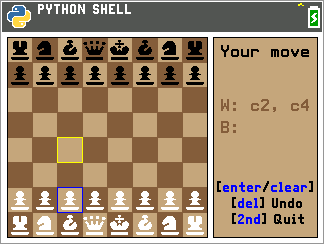
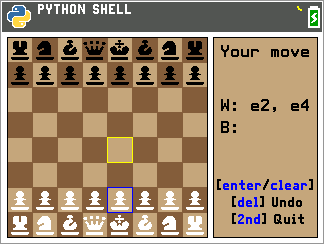
Screenshots/Ttitle screen updates

diff --git a/Chess/CHESS.py b/Chess/CHESS.py
@@ -18,7 +18,7 @@ PIECE_H    = 20     # height of the piece sprites (bases line up)
 
 # Colors
 BG_COLOR = (255, 255, 255) # White
-BOARDER = (0, 0, 0) # Black
+BORDER = (0, 0, 0) # Black
 BOARD_COLOR   = (196, 164, 120) # Light color
 BOARD_TILE = (130, 92, 60)    # Dark color
 GRID_COLOR = BOARD_TILE         # Lines between squares
@@ -184,7 +184,7 @@ def draw_outer_border():
     # Black border around the whole board only
     left, top = BOARD_X, BOARD_Y
     right, bottom = BOARD_X + BOARD_SIZE, BOARD_Y + BOARD_SIZE
-    ti_draw.set_color(*BOARDER)
+    ti_draw.set_color(*BORDER)
     ti_draw.draw_line(left, top, right, top)
     ti_draw.draw_line(left, bottom, right, bottom)
     ti_draw.draw_line(left, top, left, bottom)
@@ -232,7 +232,7 @@ def hide_cursor(row, col):
     for line, outer in edges:
         if not outer:
             ti_draw.draw_line(*line)
-    ti_draw.set_color(*BOARDER)
+    ti_draw.set_color(*BORDER)
     for line, outer in edges:
         if outer:
             ti_draw.draw_line(*line)
@@ -628,9 +628,9 @@ def cpu_move(b, side, ep, cs, legal, level, seen):
 # ---------- Title screen ----------
 
 TEXT_COLOR  = (0, 0, 0)          # Black
-TITLE_COLOR   = (220, 0, 0)       # Red
+TITLE_COLOR   = TEXT_COLOR
 BRACKET_COLOR = TITLE_COLOR
-TITLE_BG      = BOARD_COLOR       # title screen background
+TITLE_BG      = BG_COLOR
 
 # Big title letters, 5 x 7 pixel grid, drawn TITLE_SCALE times bigger
 TITLE_SCALE = 6
@@ -641,12 +641,16 @@ TITLE_FONT = {
     "s": [".....", ".....", ".####", "#....", ".###.", "....#", "####."],
 }
 
-TITLE_Y   = 16                   # top of the big "Chess"
+TITLE_Y   = 16                  # top of the big "Chess"
+BAND_COLS = 8                   # checkered band behind the title
+BAND_ROWS = 2
+BAND_X    = (SCREEN_WIDTH - BAND_COLS * TILE_SIZE) // 2
+BAND_Y    = TITLE_Y - (BAND_ROWS * TILE_SIZE - 7 * TITLE_SCALE) // 2
 HEAD_Y    = 92                   # "Select difficulty:" / "Select your color:"
 MENU_Y    = 124                  # first menu option
 MENU_STEP = 24                   # space between lines
 MENU      = ["Easy", "Normal", "Hard"]
-COLORS    = ["White", "Black", "Demo"]
+COLORS    = ["White", "Black", "CPU Game"]
 
 _last_key = [0]
 
@@ -683,6 +687,17 @@ def draw_big_text(text, y, color):
                 else:
                     c += 1
         x += 6 * s
+
+
+def draw_checker_band():
+    # Board-colored checkered strip behind the title (top-left is light)
+    ti_draw.set_color(*BOARD_COLOR)
+    fill_box(BAND_X, BAND_Y, BAND_COLS * TILE_SIZE, BAND_ROWS * TILE_SIZE)
+    ti_draw.set_color(*BOARD_TILE)
+    for row in range(BAND_ROWS):
+        for col in range((row + 1) % 2, BAND_COLS, 2):
+            fill_box(BAND_X + col * TILE_SIZE, BAND_Y + row * TILE_SIZE,
+                     TILE_SIZE, TILE_SIZE)
 
 
 def draw_text_centered(y, text, color):
@@ -739,6 +754,7 @@ def title_screen():
     # color "w", "b", or "c" (CPU vs CPU: you just watch). Returns None if CLEAR is pressed on the first menu.
     # CLEAR on the color menu goes back to the difficulty menu.
     draw_bg(TITLE_BG)
+    draw_checker_band()
     draw_big_text("Chess", TITLE_Y, TITLE_COLOR)
     while True:
         level = run_menu("Select difficulty:", MENU, 1)   # Normal picked
@@ -845,7 +861,7 @@ def draw_box():
     # Message area filled with the board color, with a black border
     ti_draw.set_color(*PANEL_BG)
     fill_box(BOX_L + 1, BOX_T + 1, BOX_R - BOX_L - 1, BOX_B - BOX_T - 1)
-    ti_draw.set_color(*BOARDER)
+    ti_draw.set_color(*BORDER)
     ti_draw.draw_line(BOX_L, BOX_T, BOX_R, BOX_T)
     ti_draw.draw_line(BOX_L, BOX_B, BOX_R, BOX_B)
     ti_draw.draw_line(BOX_L, BOX_T, BOX_L, BOX_B)
@@ -989,7 +1005,7 @@ def player_move(b, legal, cur, you_y, you_tag, can_undo):
             text = move_text(you_tag, sq_name(sel) + ", " + sq_name(cur))
         if text != shown[0]:
             shown[0] = text
-            text_line(you_y, text, BOARD_TILE)
+            text_line(you_y, text, BORDER)
 
     show_sq(cur)
     track()
@@ -1068,18 +1084,18 @@ def show_log(result, score, log):
     # are drawn once. Scrolling only clears and redraws the moves
     # between the two lines.
     draw_bg()
-    ti_draw.set_color(*BOARDER)
+    ti_draw.set_color(*BORDER)
     ti_draw.draw_text(LOG_X, LOG_TOP, "Score Sheet - " + result)
     ti_draw.draw_line(LOG_X, LOG_TOP + 2, SCREEN_WIDTH - LOG_X, LOG_TOP + 2)
     ti_draw.draw_line(LOG_X, LOG_BOTTOM, SCREEN_WIDTH - LOG_X, LOG_BOTTOM)
     ti_graphics.setFont(SMALL_FONT)
-    draw_keys(LOG_X, SCREEN_HEIGHT - 8, LOG_HELP, BOARDER, True)
+    draw_keys(LOG_X, SCREEN_HEIGHT - 8, LOG_HELP, BORDER, True)
     ti_graphics.setFont(NORMAL_FONT)
 
     while True:
         ti_draw.set_color(*BG_COLOR)
         fill_box(0, LOG_TOP + 3, SCREEN_WIDTH, LOG_BOTTOM - LOG_TOP - 3)
-        ti_draw.set_color(*BOARD_TILE)
+        ti_draw.set_color(*BORDER)
         for r in range(LOG_ROWS):
             if top + r < len(lines):
                 cols = lines[top + r]
@@ -1136,8 +1152,8 @@ def run_game(level, you):
     first, second = MOVES_Y, MOVES_Y + LINE_H
     you_y, cpu_y = (second, first) if you == "b" else (first, second)
     you_tag, cpu_tag = ("B", "W") if you == "b" else ("W", "B")
-    text_line(you_y, move_text(you_tag), BOARD_TILE)
-    text_line(cpu_y, move_text(cpu_tag), BOARD_TILE)
+    text_line(you_y, move_text(you_tag), BORDER)
+    text_line(cpu_y, move_text(cpu_tag), BORDER)
     undo_ok = not watch and level in UNDO_LEVELS
     if watch:
         draw_help(HELP_WATCH)
@@ -1221,18 +1237,18 @@ def run_game(level, you):
                     if ob[sq] != b[sq]:
                         redraw_square(ob, sq)
                 b = ob
-                text_line(you_y, move_text(you_tag), BOARD_TILE)
-                text_line(cpu_y, move_text(cpu_tag), BOARD_TILE)
+                text_line(you_y, move_text(you_tag), BORDER)
+                text_line(cpu_y, move_text(cpu_tag), BORDER)
                 continue
         else:
             # CPU's turn (in CPU vs CPU both sides: white on the top
             # line, black on the bottom)
             y, tag = (you_y, you_tag) if side == you_tag.lower() else (cpu_y, cpu_tag)
             text_line(STATUS_Y, "Thinking")
-            text_line(y, move_text(tag), BOARD_TILE)
+            text_line(y, move_text(tag), BORDER)
             m = cpu_move(b, side, ep, cs, legal, level, seen)
             text_line(y, move_text(tag, sq_name(m[0]) + ", " + sq_name(m[1])),
-                      BOARD_TILE)
+                      BORDER)
 
         if b[m[1]] or b[m[0]][1] == "P":
             # A capture or pawn move can't be undone: reset the 50-move
